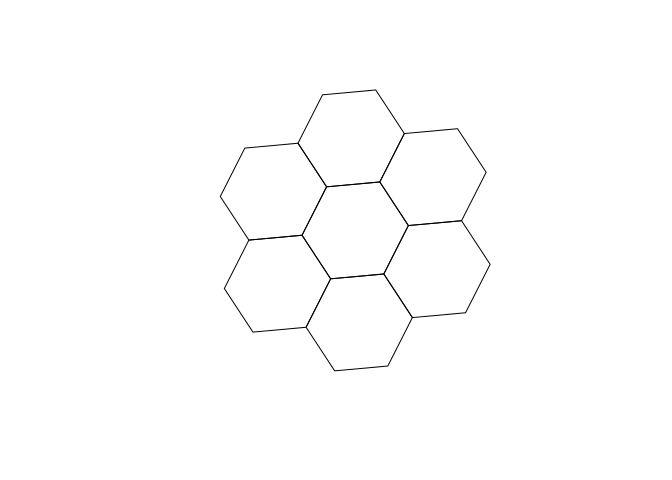
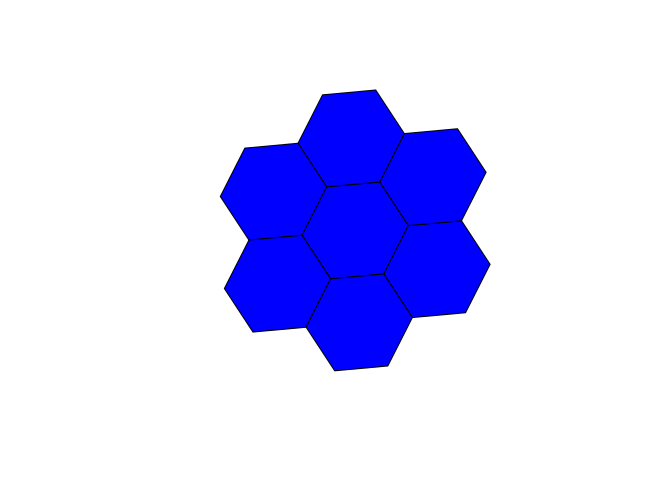
Typo

Changed region(s): [[0.3125, 0.1875, 0.75, 0.7812]]

diff --git a/README.md b/README.md
@@ -5,12 +5,12 @@ H3-R
 
 [![Travis build status](https://travis-ci.org/crazycapivara/h3-r.svg?branch=master)](https://travis-ci.org/crazycapivara/h3-r) [![Project Status: Active – The project has reached a stable, usable state and is being actively developed.](https://www.repostatus.org/badges/latest/active.svg)](https://www.repostatus.org/#active) [![H3 Version](https://img.shields.io/badge/h3-v3.3.0-blue.svg)](https://github.com/uber/h3/releases/tag/v3.3.0)
 
-Provides R bindungs to [H3](https://uber.github.io/h3/), a hexagonal hierarchical spatial indexing system.
+Provides R bindings for [H3](https://uber.github.io/h3/), a hexagonal hierarchical spatial indexing system.
 
 Notes
 -----
 
-Succesfully build on
+Succesfully built on
 
 -   Linux
 -   OSX
@@ -101,7 +101,7 @@ radius <- 1
 #> [5] "872834776ffffff" "872834729ffffff" "872834728ffffff"
 
 h3_to_geo_boundary_sf(neighbors) %>%
-  sf::st_geometry() %>% plot()
+  sf::st_geometry() %>% plot(col = "blue")
 ```
 
 <img src="man/figures/README-h3-algorithms-1.png" width="400px" />
